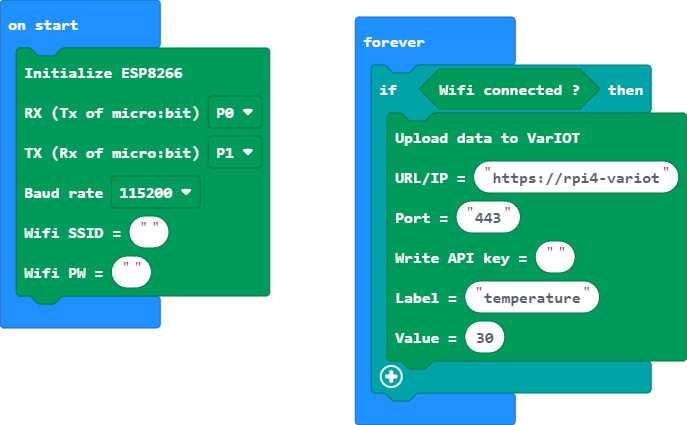
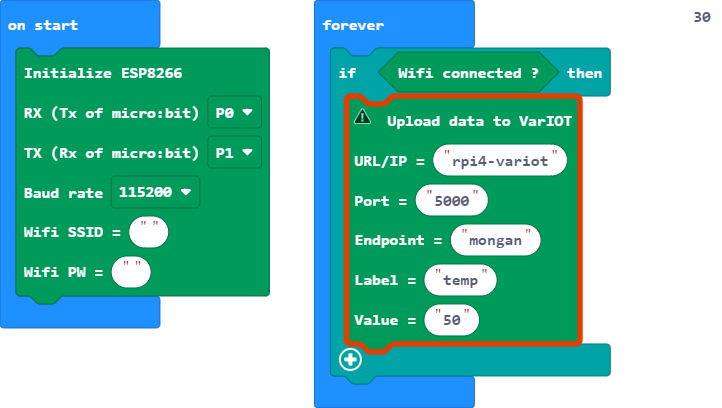
New plugin format

diff --git a/main.ts b/main.ts
@@ -8,11 +8,11 @@ BaudRate.BaudRate115200,
 basic.forever(function () {
     if (ESP8266VarIOT.isWifiConnected()) {
         ESP8266VarIOT.sendVarIOTTelemetry(
-        "https://rpi4-variot",
-        "443",
-        "",
-        "temperature",
-        30
+        "rpi4-variot",
+        "5000",
+        "mongan",
+        "temp",
+        "50"
         )
     }
 })
